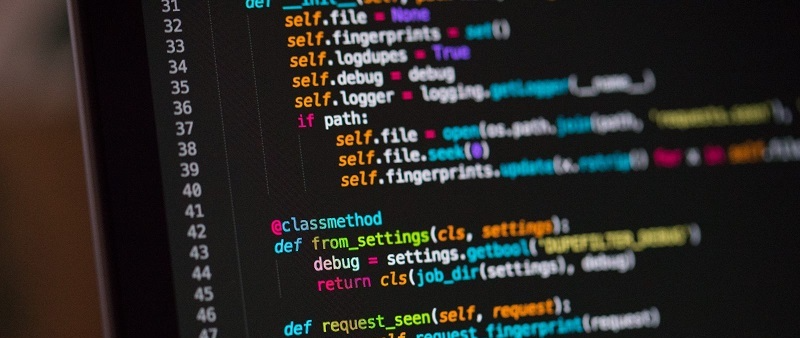
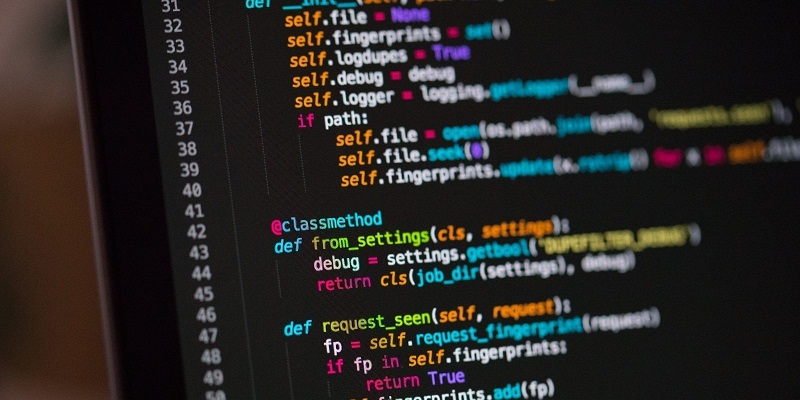
Update handbook

diff --git a/handbook/README.md b/handbook/README.md
@@ -1,5 +1,5 @@
 <div align="center">
-<img width="850" src="data/research.png">
+<img width="800" src="data/banner.png">
 
 <img src="../data/one_100.png" width="32"> Research Handbook <img src="../data/square_96.png" width="32">
 =============================
